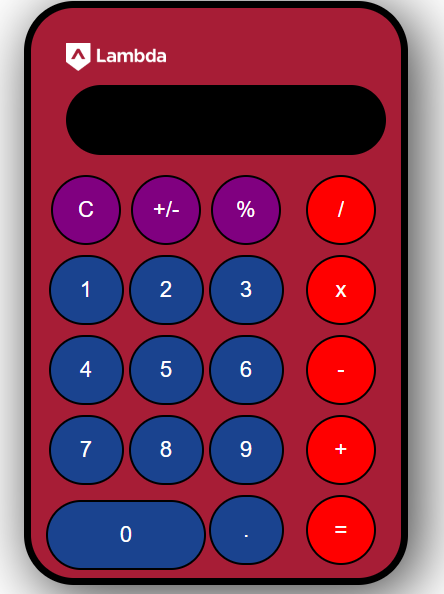
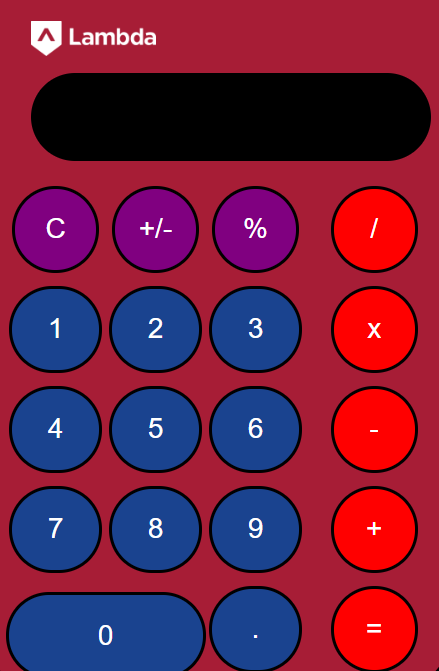
added about and portfolio components

diff --git a/src/components/portfolio.js b/src/components/portfolio.js
@@ -1,19 +1,17 @@
 import React from 'react'
 import portfolioStyles from './portfolio.module.scss';
+import CalcImage from '../images/calculator.png';
 
 const Portfolio = () => {
     return (
         <>
         
+        
         <div className={portfolioStyles.portfolioContainer}>
             
             <div className={portfolioStyles.portfolioDiv}>
+               <center> <img src={CalcImage} alt="calculator image" /></center>
                
-               <ul>
-                   <li>
-                       Tech Used: React, SemanticUI
-                   </li>
-               </ul>
             </div>
             <div className={portfolioStyles.portfolioDiv}>
 

diff --git a/src/pages/index.js b/src/pages/index.js
@@ -1,17 +1,18 @@
 import React from "react"
-import { Link } from "gatsby";
 import Layout from '../components/layout';
 import Header from '../components/header';
 import Portfolio from '../components/portfolio';
+import About from '../components/about';
+
 
 
 const IndexPage = () => {
 
     return(
         <>
-     
         <Layout>
         <Header />
+        <About />
         <Portfolio />
         </Layout>
         </>

diff --git a/src/components/about.js b/src/components/about.js
@@ -1,0 +1,15 @@
+import React from 'react'
+
+
+const About = () => {
+    return (
+        <>
+        
+        <div>
+            About me
+        </div>
+        </>
+    )
+}
+
+export default About

diff --git a/src/components/portfolio.module.scss b/src/components/portfolio.module.scss
@@ -10,3 +10,8 @@
     width: 400px;
     border: 5px dotted white;
 }
+
+img {
+    width: 280px;
+    height: 300px;
+}
